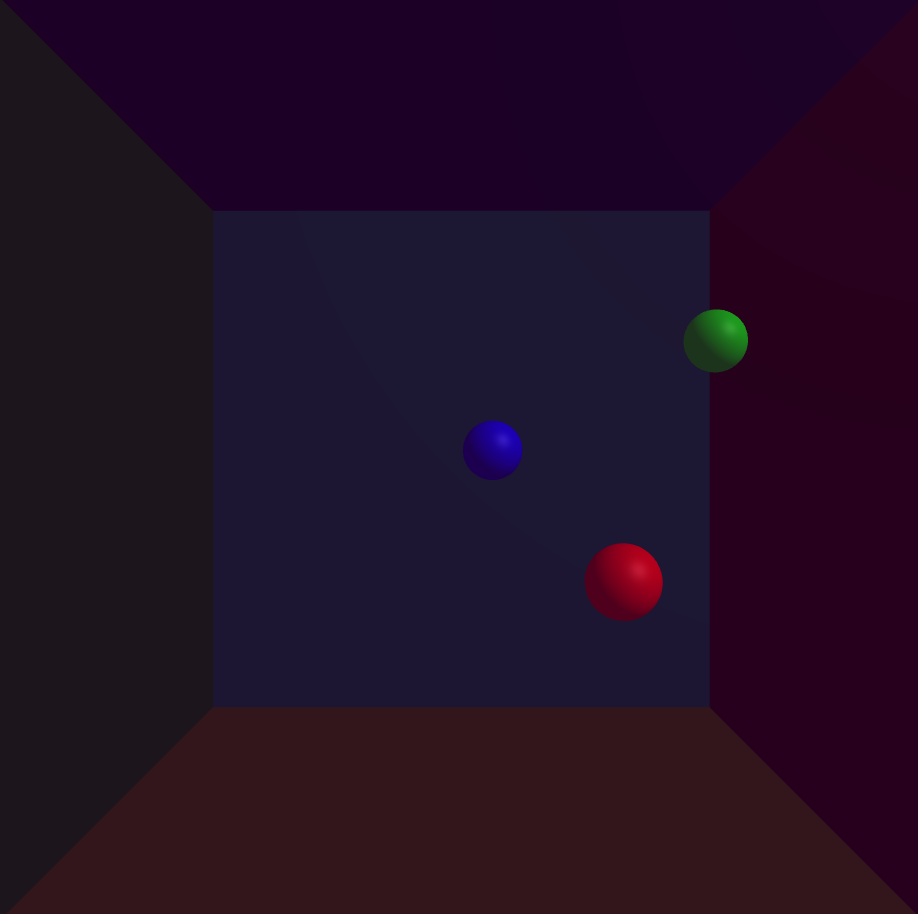
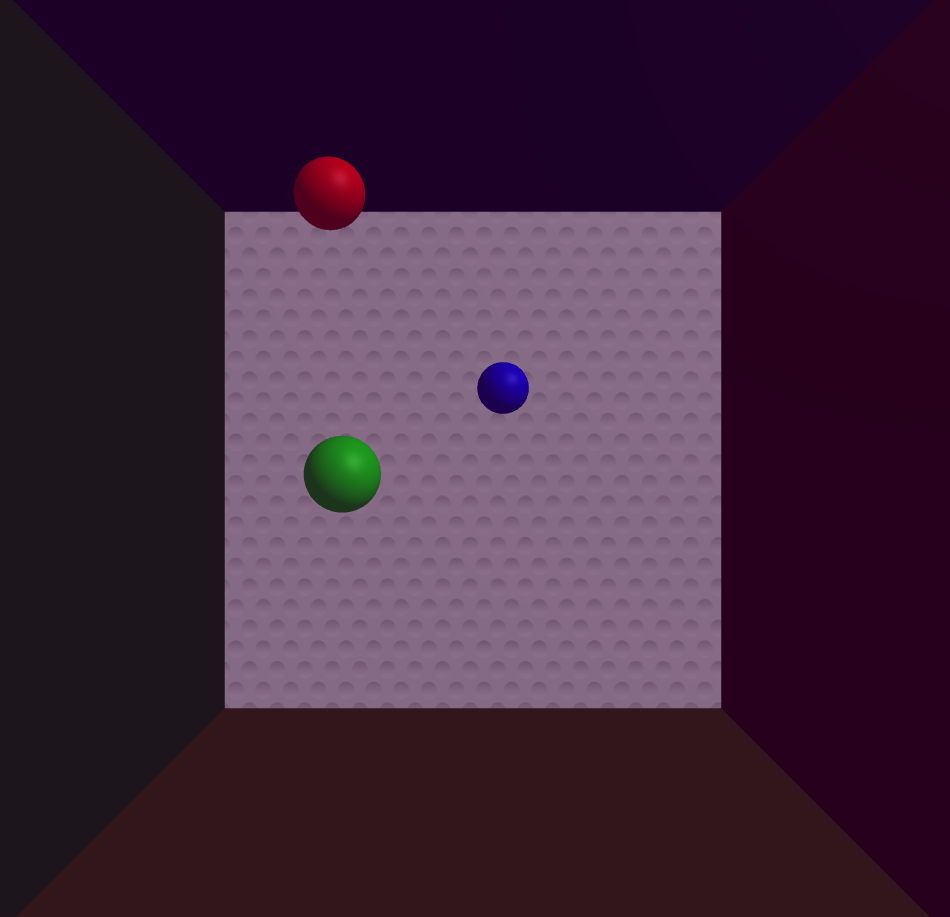
Add files via upload

Changed region(s): [[0.2135, 0.1532, 0.8235, 0.7965]]

diff --git a/tugas3/main.js b/tugas3/main.js
@@ -90,7 +90,7 @@ function createColoredWalls() {
         new THREE.MeshPhongMaterial({color: 0x0000ff, transparent: true, opacity: 0.2, side: THREE.DoubleSide}),
         new THREE.MeshPhongMaterial({color: 0xffff00, transparent: true, opacity: 0.2, side: THREE.DoubleSide}),
         new THREE.MeshPhongMaterial({color: 0xff00ff, transparent: true, opacity: 0.2, side: THREE.DoubleSide}),
-        new THREE.MeshPhongMaterial({map: texture1, transparent: true, opacity: 1, side: THREE.DoubleSide})
+        new THREE.MeshPhongMaterial({map: texture1, side: THREE.DoubleSide})
     ];
 
     const wallPositions = [

diff --git a/tugas3/README.md b/tugas3/README.md
@@ -4,8 +4,6 @@
 | :--------: | :------------: |
 | 5025221195 | Ahmad Fadhilah Mappisara |
 
-</div>
-
 
 # WebGL Bouncing Spheres Project
 
